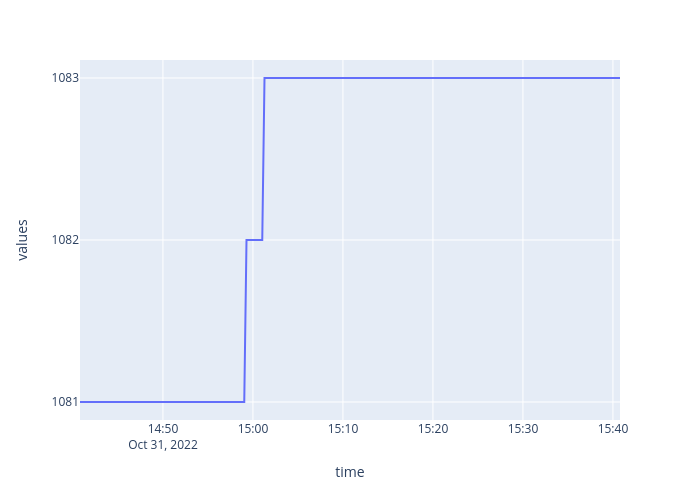
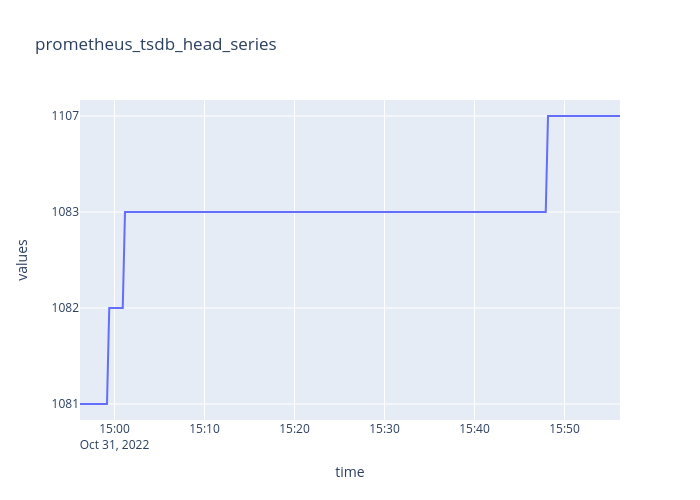
display timeseries name in graph title

diff --git a/draw_graph.py b/draw_graph.py
@@ -20,11 +20,13 @@ one_hour_before = current_time - 1 * 60 * 60
 if not prometheus_api_url.endswith("/"):
     prometheus_api_url += "/"
 
+series_name = "prometheus_tsdb_head_series"
+
 response = requests.get(urljoin(
     prometheus_api_url,
     "api/v1/query_range"
 ), params={
-    "query": "prometheus_tsdb_head_series",
+    "query": series_name,
     "start": int(one_hour_before),
     "end": int(current_time),
     "step": "15s"
@@ -47,7 +49,8 @@ df = pd.DataFrame(dict(
     values=values
 ))
 
-graph = px.line(df, x=df['time'], y=df['values'])
+graph = px.line(df, x=df['time'], y=df['values'], title=series_name)
+
 
 with open("graph.png", 'wb') as f:
 
